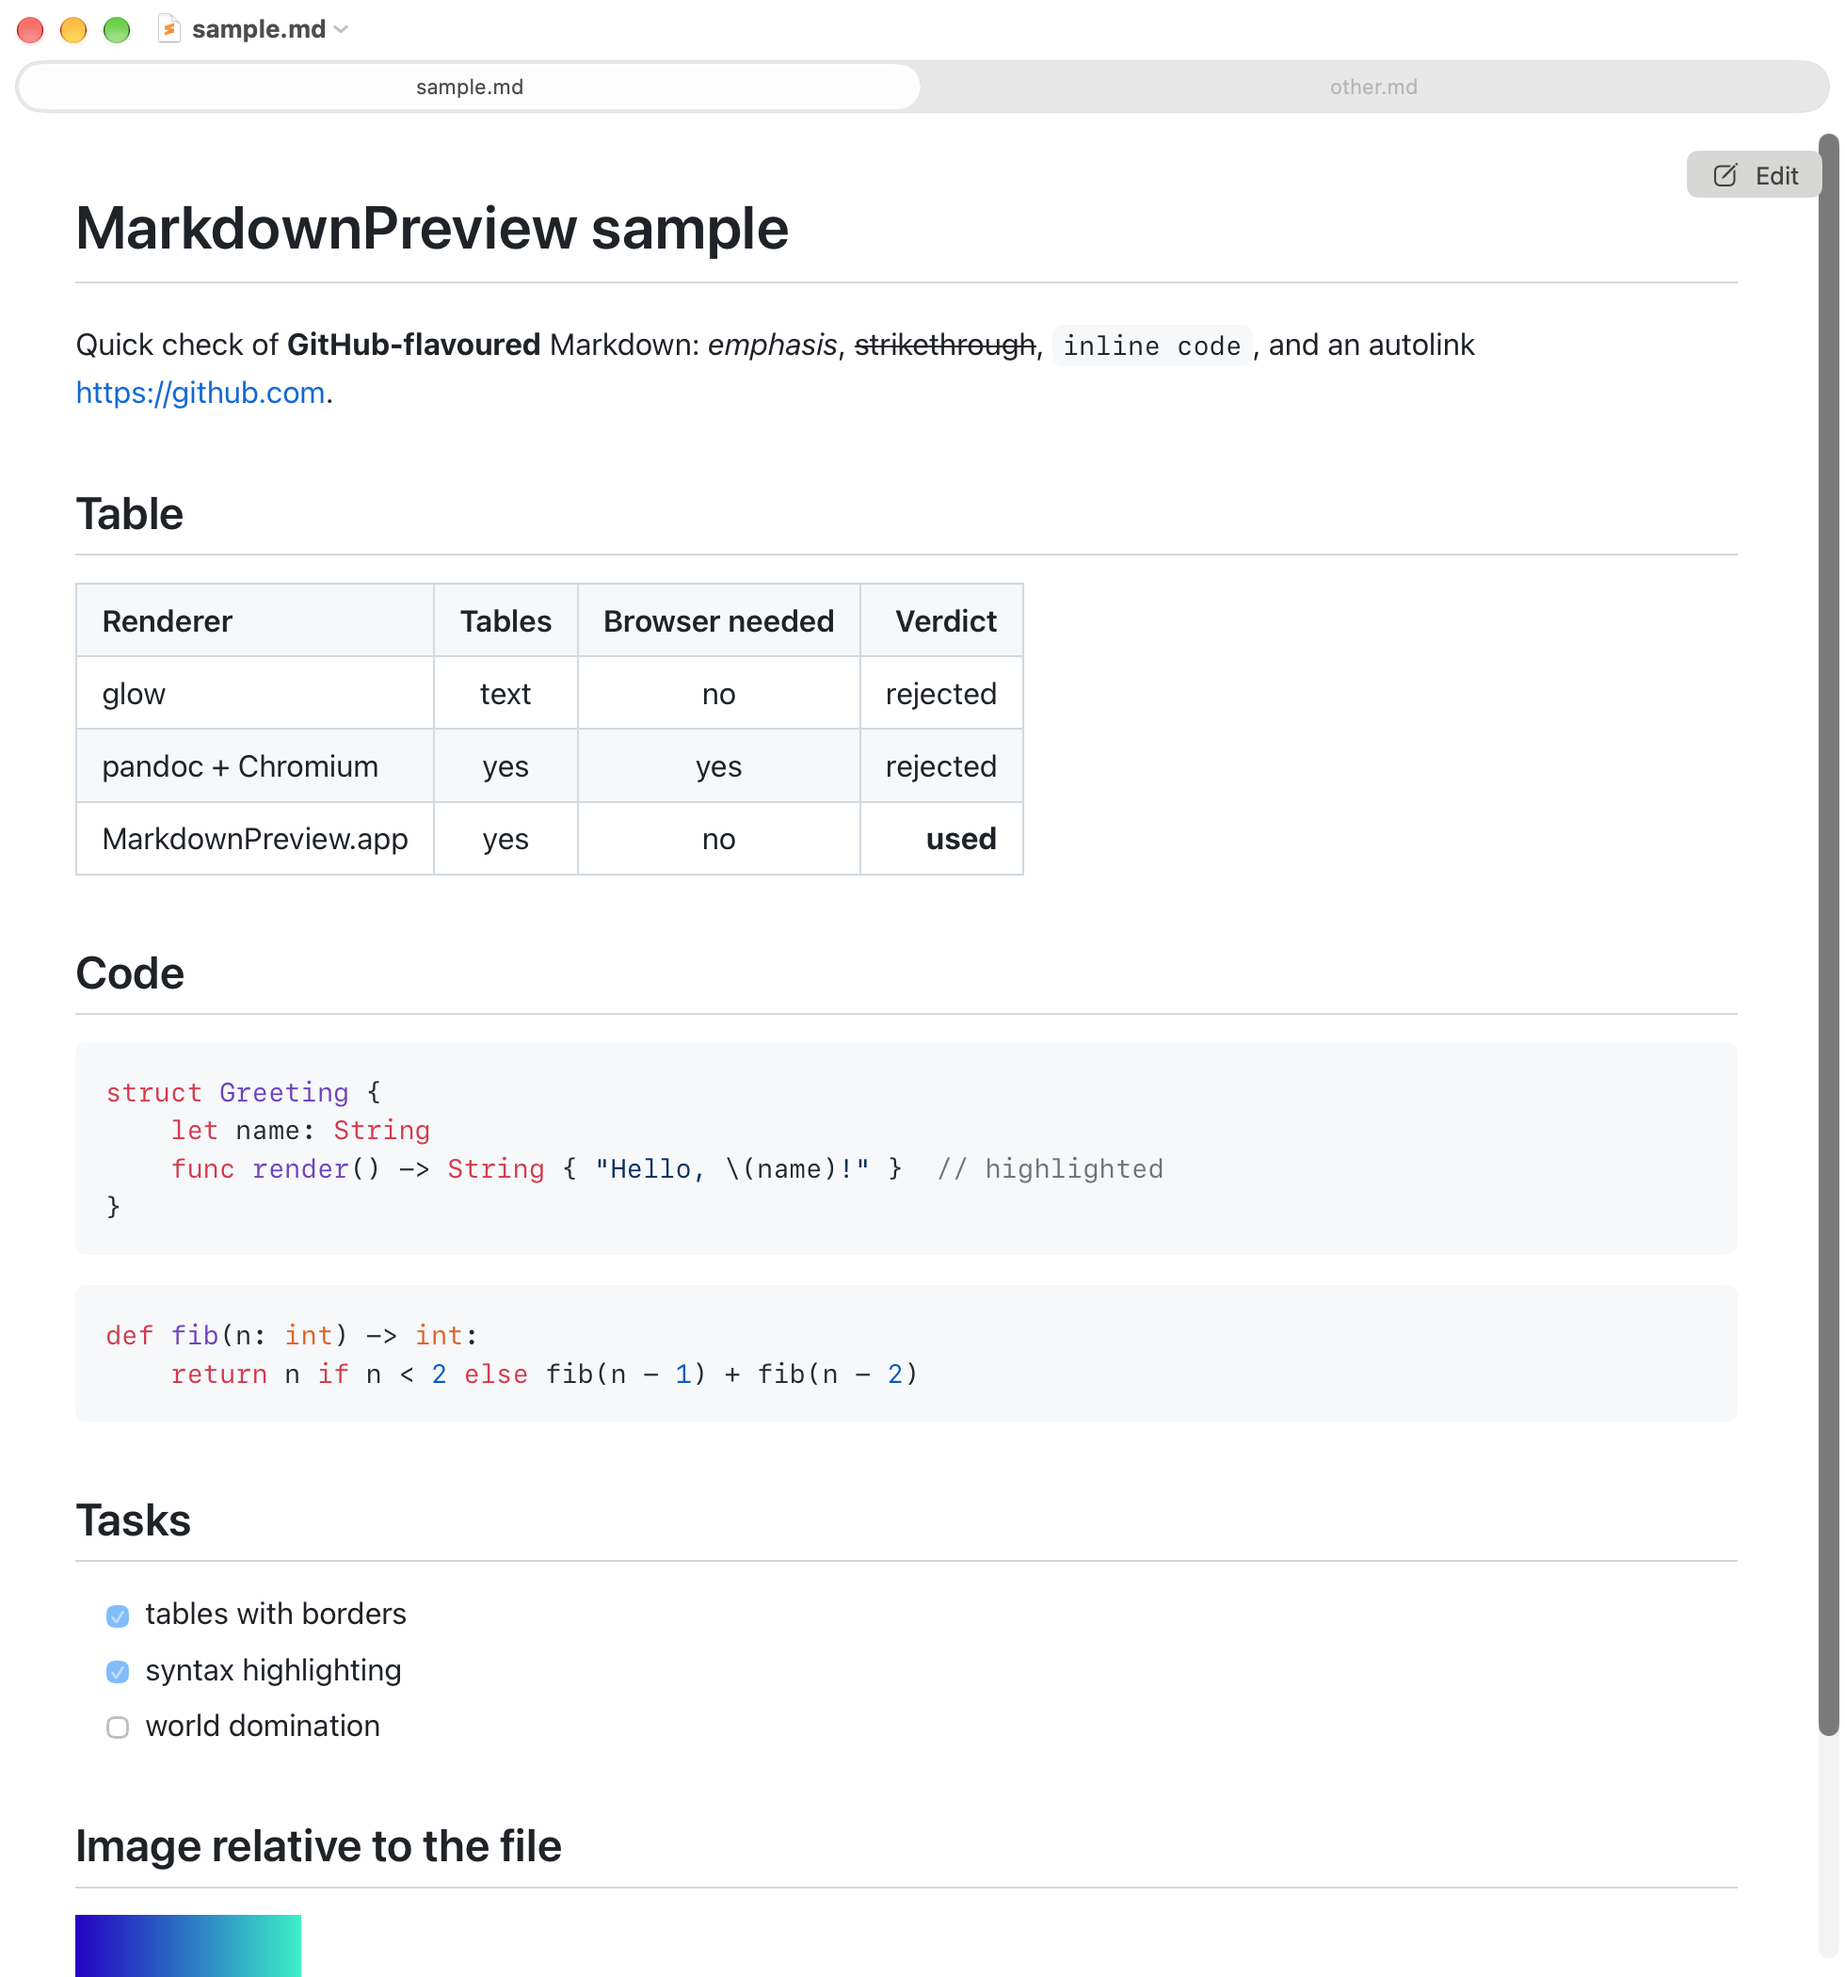
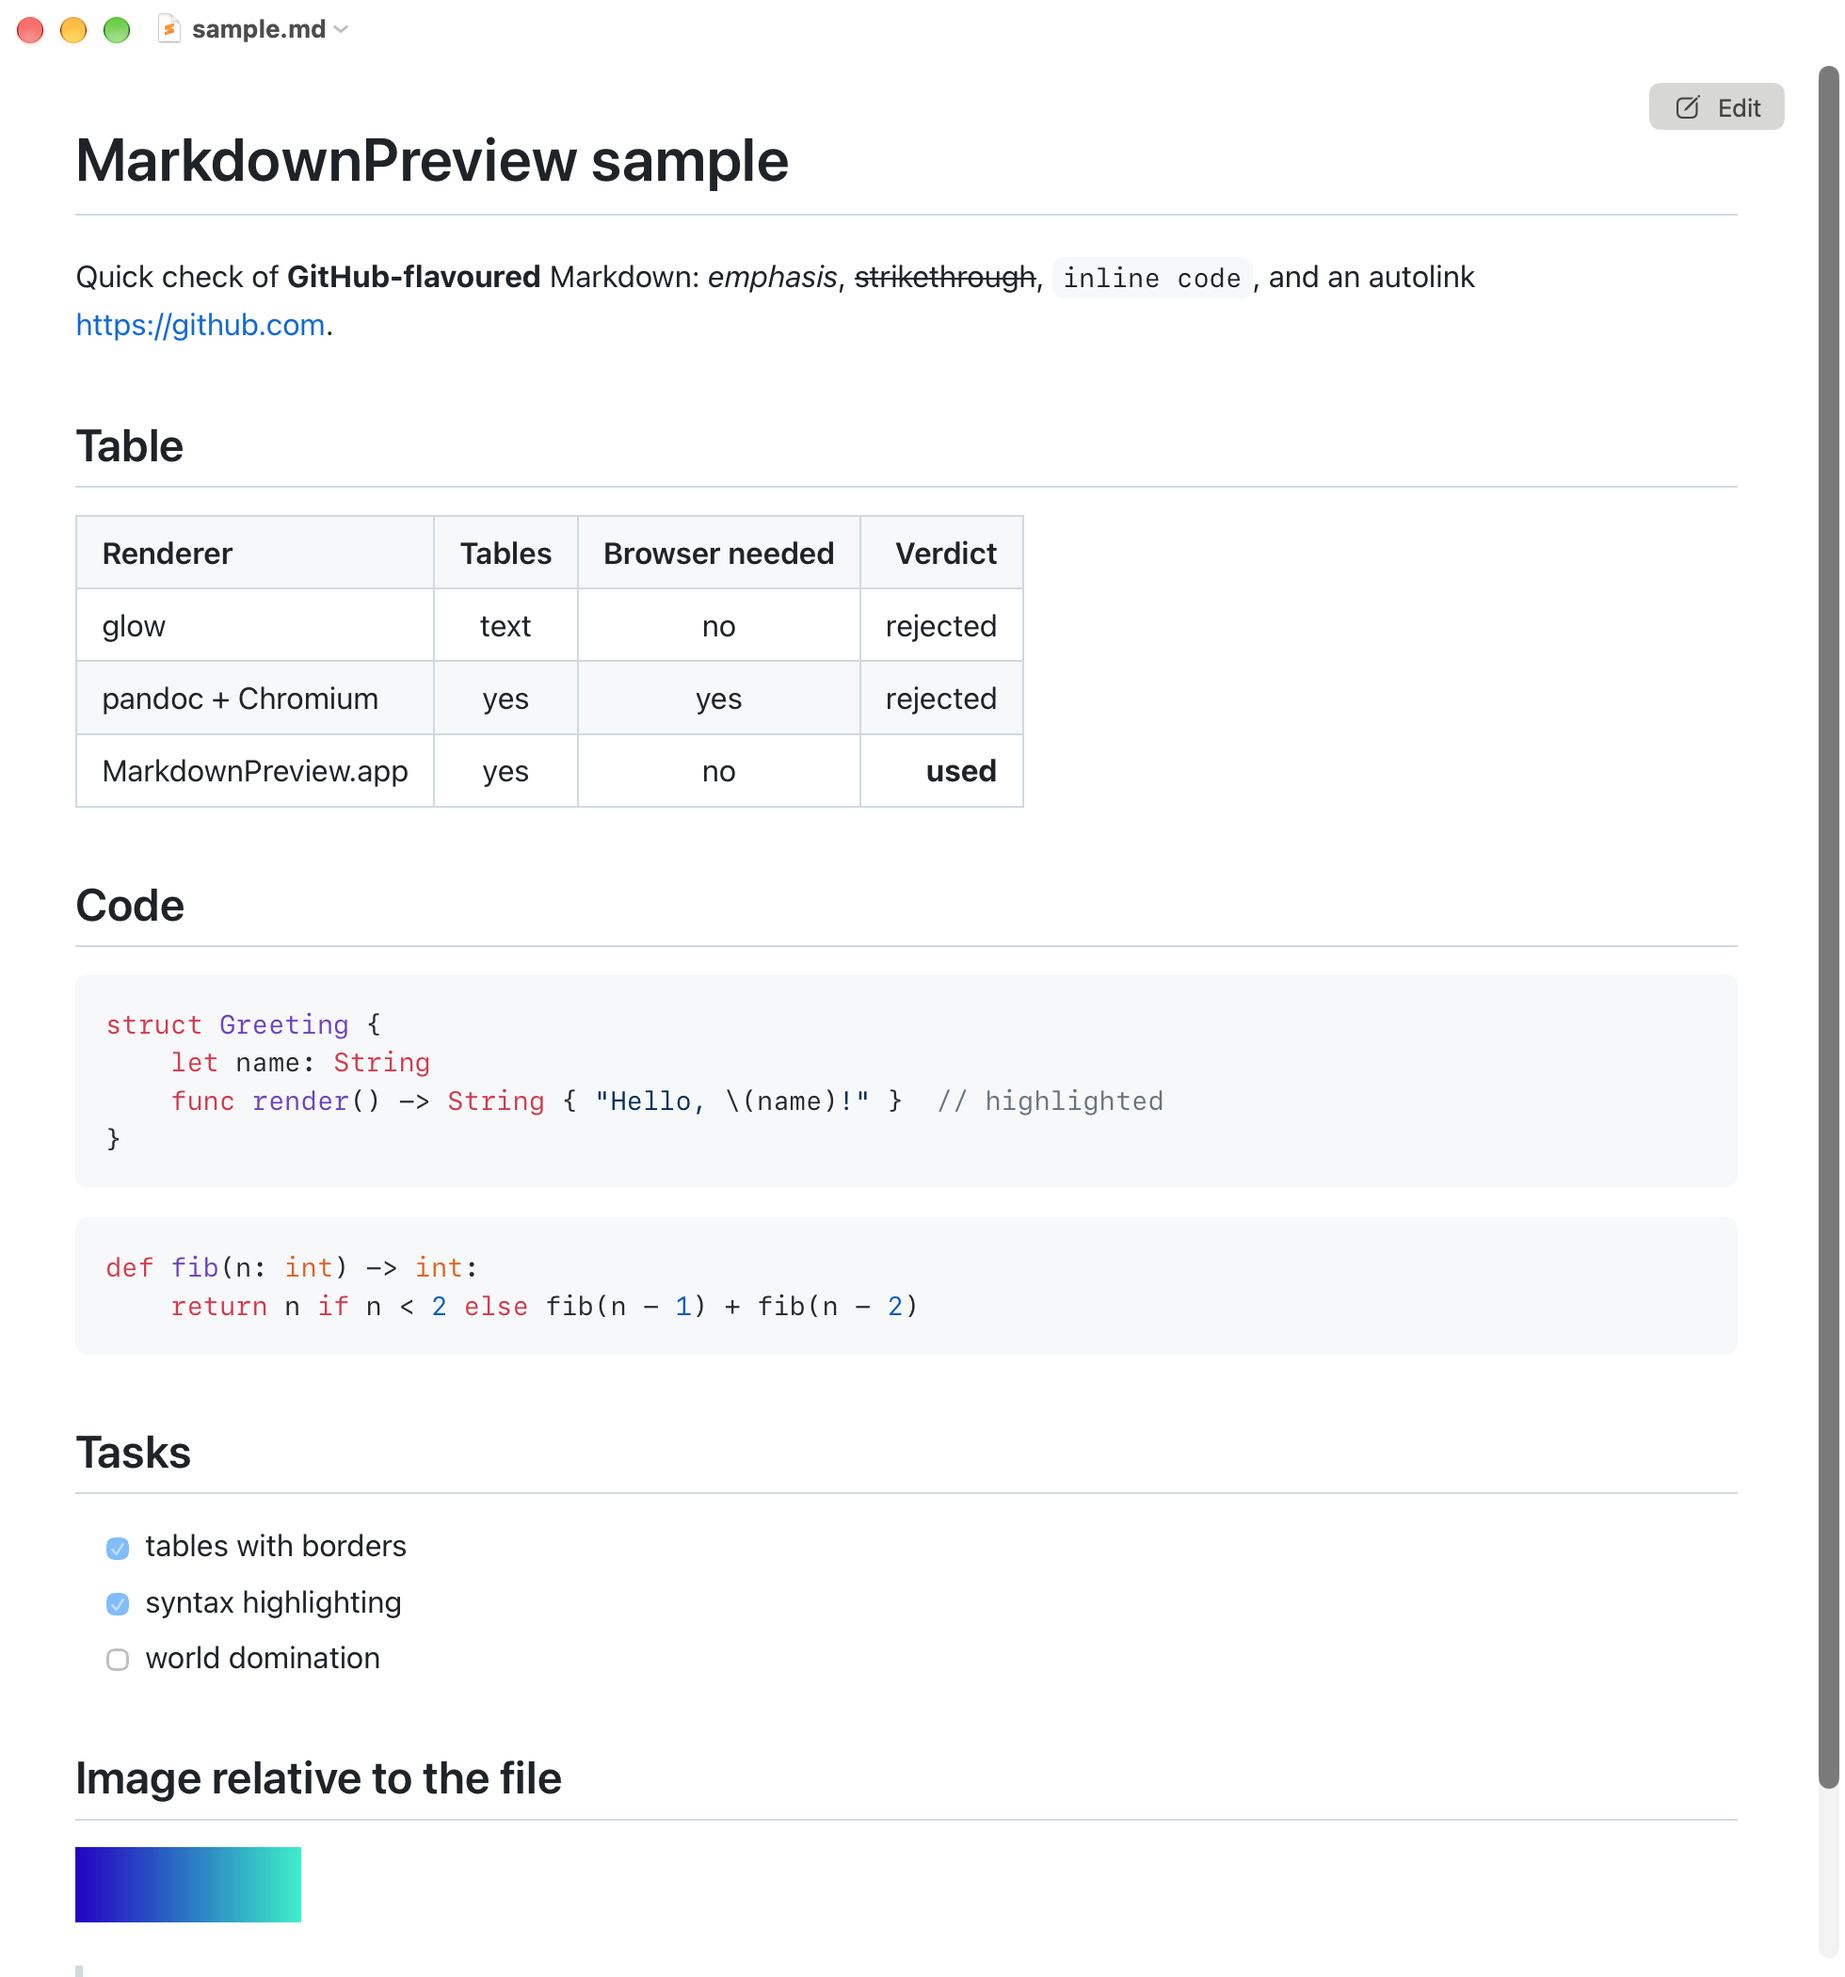
fix: keep Edit button clear of the scroller

diff --git a/App/EditButton.swift b/App/EditButton.swift
@@ -3,6 +3,8 @@ import SwiftUI
 
 /// First installed editor wins; override with `defaults write com.pannous.MarkdownPreview editorBundleIdentifier <bundle id>`.
 private let editorOverrideKey = "editorBundleIdentifier"
+/// Keeps the button clear of the web view's overlay scroller.
+private let scrollerClearance: CGFloat = 20
 private let preferredEditorBundleIdentifiers = ["com.sublimetext.4", "com.sublimetext.3", "com.microsoft.VSCode", "com.apple.TextEdit"]
 
 enum Editor {
@@ -31,5 +33,6 @@ struct EditButton: View {
             .buttonStyle(.bordered)
             .background(.regularMaterial, in: RoundedRectangle(cornerRadius: 6))
             .padding(12)
+            .padding(.trailing, scrollerClearance)
     }
 }
